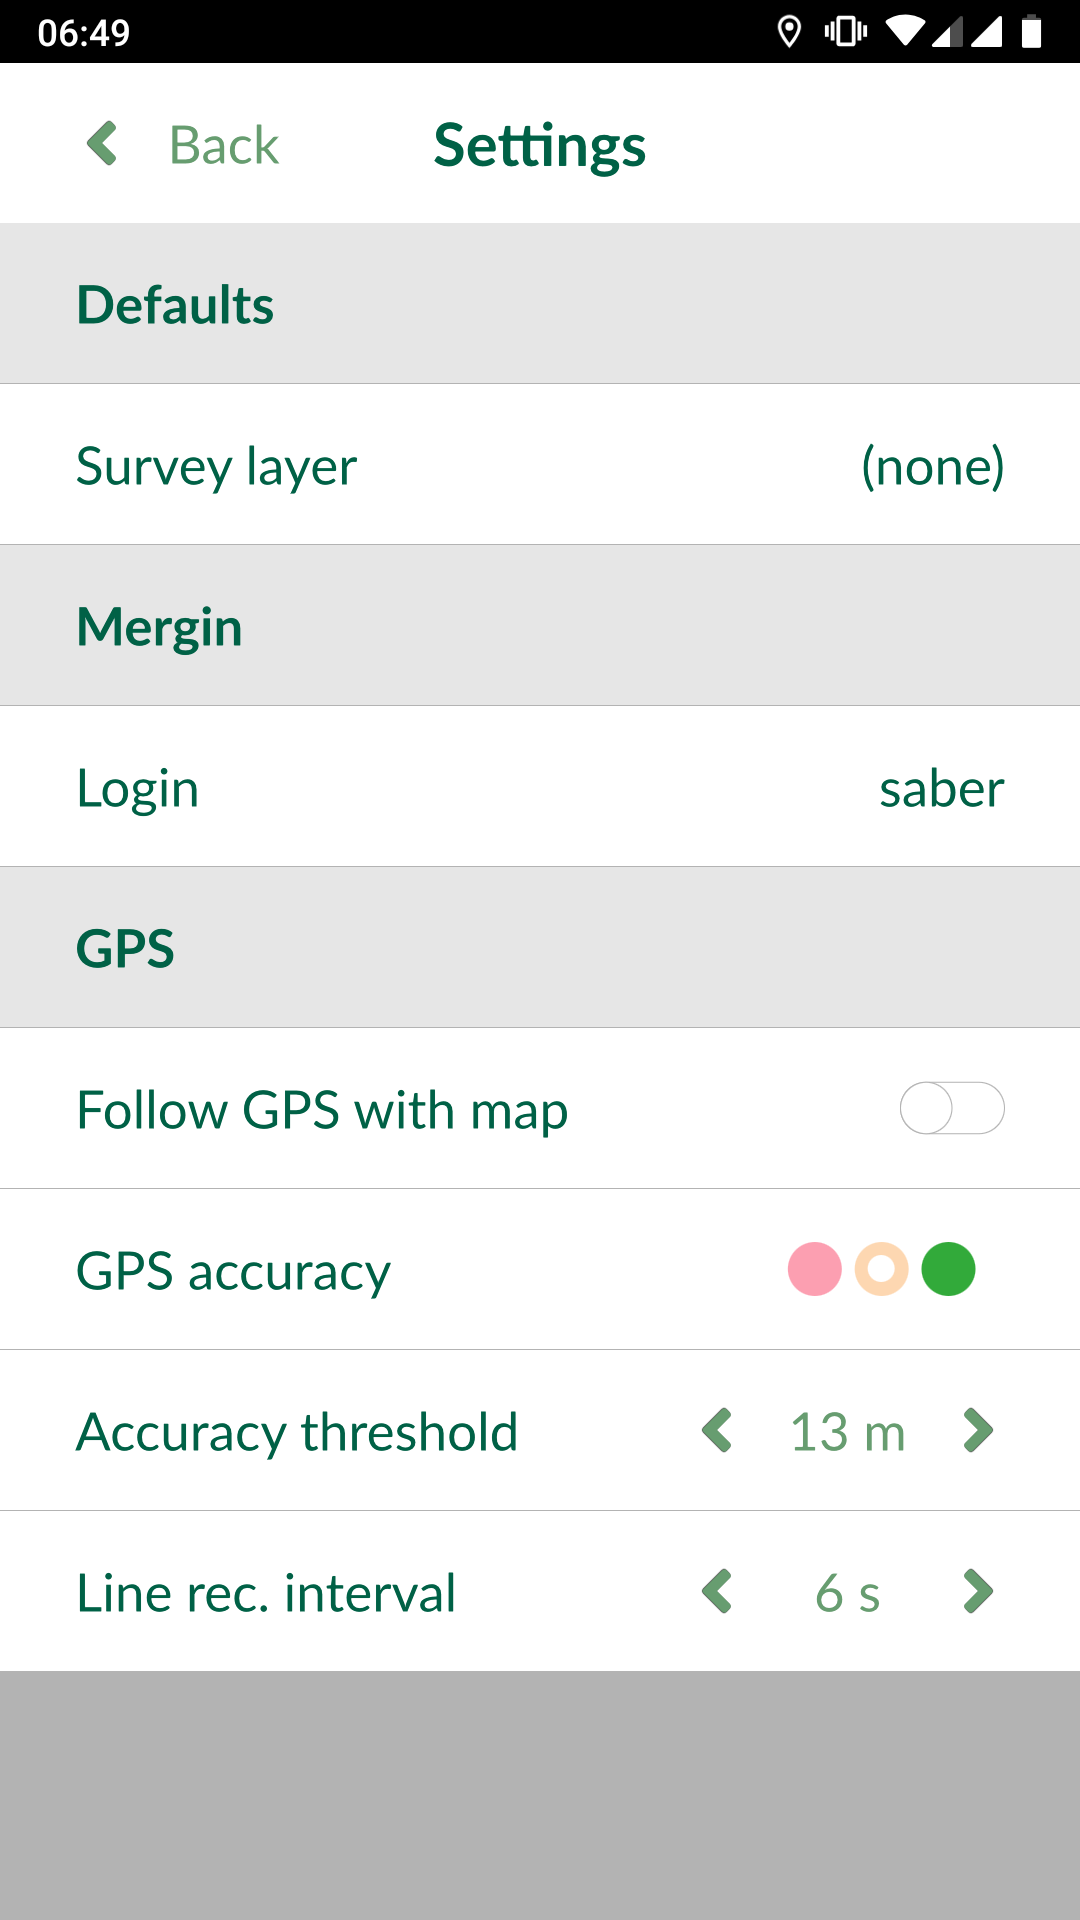
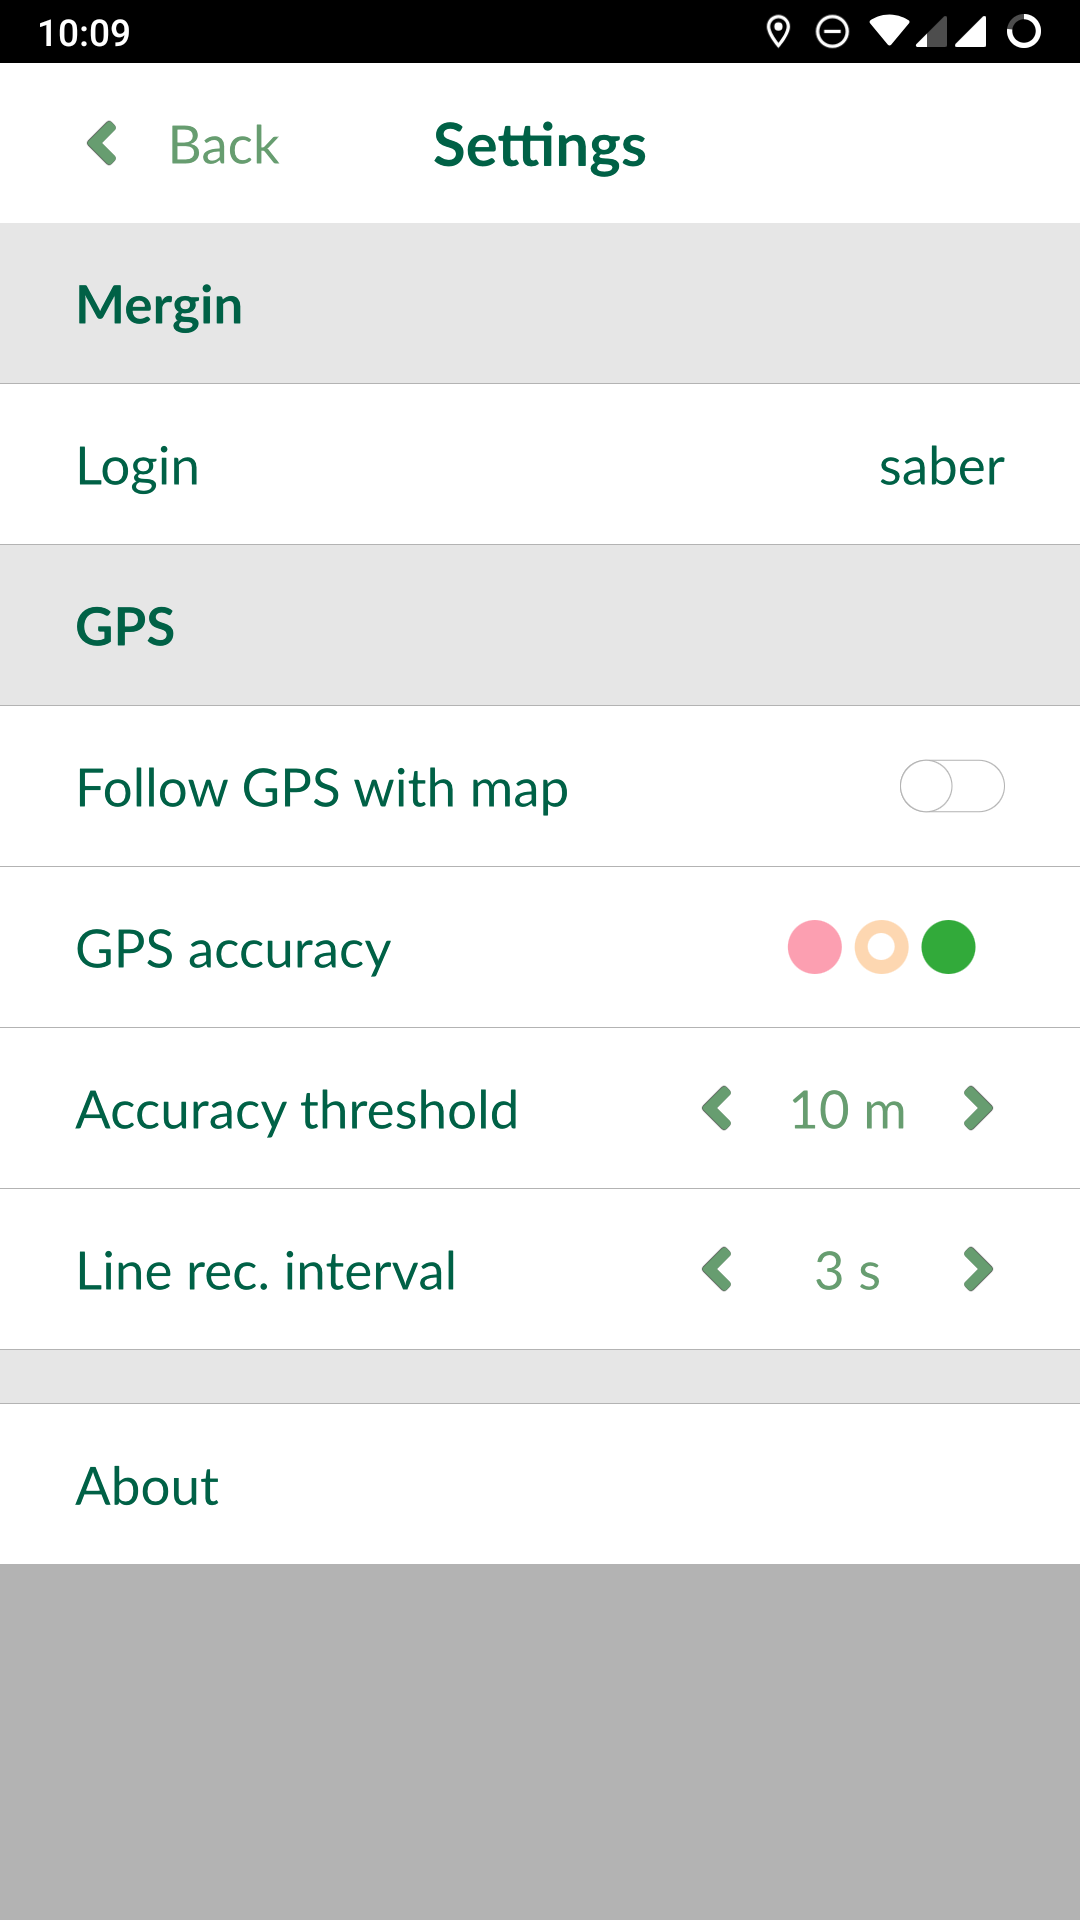
updated the docs for 0.3 release, closes #348

diff --git a/docs/users/using_input.md b/docs/users/using_input.md
@@ -2,15 +2,15 @@
 
 ## Accessing projects
 You can install Input from Google Play Store. Once you open the
-application for the first time, it will take you to MY PROJECTS screen.
+application for the first time, it will take you to **Home** screen.
 This screen displays all the projects stored locally (under
 /sdcard/INPUT folder).
 
 
-<img src="images/input_my_projects.png" alt="MY PROJECTS screen in Input" width=50% />
+<img src="images/input_projects_home.png" alt="MY PROJECTS screen in Input" width=50% />
 
 To access your projects or those shared with you through Mergin, select
-ALL PROJECTS tab. You will need your log in details to sign in to
+**My projects** or **Shared with me**  tabs respectively. You will need your log in details to sign in to
 Mergin:
 
 <img src="images/input_mergin_signin.png" alt="Mergin sign in screen in Input" width=50% />
@@ -18,16 +18,16 @@ Mergin:
 Once logged in, you can download your project to work on it locally by
 pressing download button to the right of the project:
 
-<img src="images/input_all_projects.png" alt="ALL PROJECTS screen in Input" width=50% />
+<img src="images/input_projects_my_projects.png" alt="My projects screen in Input" width=50% />
 
-The project will be available for survey after you download it locally.
-Select MY PROJECTS and you should be able to see your downloaded
+The project will be available for loading in Input after you download it locally.
+Select **Home** and you should be able to see your downloaded
 project:
 
-<img src="images/input_my_projects_updated.png" alt="MY PROJECTS screen in Input" width=50% />
+<img src="images/input_projects_home_updated.png" alt="Home screen in Input" width=50% />
 
 
-Selecting a project under MY PROJECTS will open it in INPUT.
+Selecting a project under **Home** will open it in INPUT.
 
 ## Adding/editing features
 
@@ -58,10 +58,6 @@ You can:
 
 Once finished, press **Done**. If your feature is an area, it will join the last point to the first point to close the shape.
 
-
-You can set the default survey layer, so that when you press record, it will automatically adds the feature to the default layer. To set the default survey layer, click on **Settings** and set the survey layer under **Defaults**. Alternatively, you can press and hold **Record button** to set the default survey layer.
-
-
 ## Viewing/deleting existing data
 You can view the existing data by tapping on them on the map. It will
 open a preview panel (according to Display settings in QGIS - see
@@ -74,17 +70,11 @@ If you want to delete the item, you can press the recycle bin from the lower pan
 in the form edit.
 
 ## Synchronisation of data/ projects
-You can upload your changes through Mergin, once you have network
-connectivity. Select Project from the lower panel and then tap on ALL
-PROJECTS. Input should automatically flag changed projects with an
-upload icon.
+You can upload your changes through the Mergin service, once you have network connectivity. Select Project from the lower panel and then tap on **My projects** (or **Shared with me** if you have write access to the shared project). Input should automatically flag changed projects with a synchronise icon.
 
 
-<img src="images/input_all_projects_updated.png" alt="ALL PROJECTS screen with updated local project" width=50% />
+<img src="images/input_my_projects_upload.png" alt="My projects screen with updated local project" width=50% />
 
-Pressing upload button to the right of the project will send the updated
-data and project to Mergin. If a project and its data has been updated
-through Mergin, you will be notified to synchronise the changes to your
-local copy.
-
-<img src="images/input_all_projects_mergin_updated.png" alt="ALL PROJECTS screen with updated project in Mergin" width=50% />
+Pressing sync button to the right of the project will send the updated
+data to the Mergin service. Similarly, if a project and its data has been updated
+through the Mergin service, you will be notified to synchronise the changes to your local copy.

diff --git a/docs/users/input_ui.md b/docs/users/input_ui.md
@@ -5,13 +5,16 @@ Below is a description of various items within the user interface:
 <img src="images/input_gui.png" alt="Input user interface" width=50% />
 
 ## Projects
-Projects will list the projects available locally (MY PROJECTS) and
-those shared via Mergin (ALL PROJECTS). Within MY PROJECT, user can
-delete an existing project.
 
-ALL PROJECTS lists the projects within user's Mergin account. It also
-includes projects shared with the user by other Mergin users. Projects
-can be downloaded or updated (to or from) Mergin from this screen.
+Within this screen you can see the following options:
+- **Home**: list of all downloaded projects on your device. You can only open downloaded projects within this screen. You can also delete local projects by selecting the bin icon to the right of each project.
+- **My projects**: are the projects created by user and hosted on the Mergin service. You can download and upload changes using the icons to the right of each project.
+- **Shared with me**: are projects on the Mergin service shared with you by other users.
+- **Explore**: a full list of public projects by others on the Mergin service
+
+You can **Search** for projects using the search bar on the top. To access your Mergin profile information, select the icon on the top right of this screen.
+
+<img src="../../images/screen4.jpg" alt="Projects screen" width=50% />
 
 ## GPS
 By default, the map centred around the project extent. Pressing
@@ -48,12 +51,6 @@ between different map themes using this option.
 Input specific configuration can be accessed through settings.
 
 <img src="images/input_settings.png" alt="Input user interface" width=50% />
-
-### Defaults
-
-The default **Survey layer** can be viewed, cleared or reset here. By
-tapping the **Survey layer**, you can set a layer or deselect the default
-layer.
 
 ### Mergin
 

diff --git a/docs/users/data_sync.md b/docs/users/data_sync.md
@@ -5,11 +5,16 @@
 Input comes with built-in functionality to seamlessly synchronise your
 projects and data through Mergin. If you want to use this functionality,
 you will need to sign up to [Mergin](https://public.cloudmergin.com) (https://public.cloudmergin.com/).
-You can drag-and-drop your project folder (including layers, SVGs, etc)
-to Mergin project page.
+
+We provide a QGIS plugin for Mergin to easily synchronise your projects and data from within QGIS. See the [plugin user manual](https://github.com/lutraconsulting/qgis-mergin-plugin/blob/master/docs/user-docs.md) for more information.
+
+<img src="https://github.com/lutraconsulting/qgis-mergin-plugin/raw/master/docs/images/mergin-browser.png" alt="Projects screen" />
+
+You can also drag-and-drop your project folder (including layers, SVGs, etc)
+to Mergin project webpage.
 
 ## Manual data/project transfer
 
-his can be done by connecting your mobile device to the computer and copying data files to/from the device.
+This can be done by connecting your mobile device to the computer and copying data files to/from the device.
 Once your Android phone or tablet is recognized by the operating system after connecting it using USB cable,
 you can use file browser to copy files. On Android devices, data are stored in `INPUT/projects` directory.

diff --git a/docs/users/project_config.md b/docs/users/project_config.md
@@ -88,8 +88,6 @@ Ensure the paths are set to Relative under Project Properties. All paths to the 
 
 Input does not include all the SVGs within QGIS. Therefore, if you are using SVGs for your layer styling, ensure those are copied across to the project folder.
 
-Input currently cannot read QGZ project at the moment. Ensure to save your project as QGS file.
-
 An example of Project Properties in QGIS for survey layers and identifiable layers can be seen below:
 
 <img src="images/qgis_project_properties.png" alt="Preview panel in Input based on Display settings in QGIS" style="width: 50%; height: 50%"/>

diff --git a/docs/users/introduction.md b/docs/users/introduction.md
@@ -14,4 +14,4 @@ A typical workflow for using Input consists of the following steps:
 
 -   Working with Input: map navigation, data editing, including filling the forms, viewing existing data and uploading the changes back to Mergin. See [Using Input](using_input.md)
 
--   Input user interface: describs various buttons, options and configurations. See [Input user interface](input_ui.md)
+-   Input user interface: describes various buttons, options and configurations. See [Input user interface](input_ui.md)
